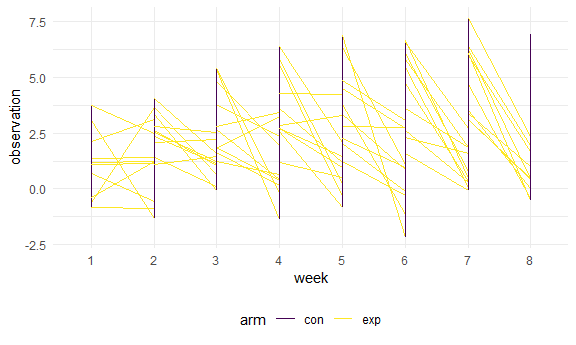
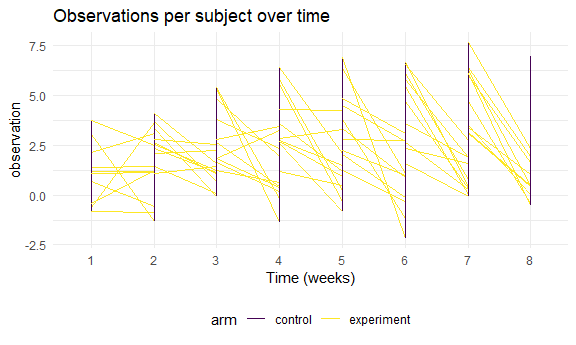
organizing and restarting on 3 -- got very lost

diff --git a/p8105_hw5_kpr2118.md b/p8105_hw5_kpr2118.md
@@ -7,14 +7,14 @@ Kailey Rishovd
 library(tidyverse)
 ```
 
-    ## -- Attaching packages --------------------------------------------------- tidyverse 1.3.0 --
+    ## -- Attaching packages ---------------------------------------- tidyverse 1.3.0 --
 
     ## v ggplot2 3.3.2     v purrr   0.3.4
     ## v tibble  3.0.3     v dplyr   1.0.2
     ## v tidyr   1.1.2     v stringr 1.4.0
     ## v readr   1.3.1     v forcats 0.5.0
 
-    ## -- Conflicts ------------------------------------------------------ tidyverse_conflicts() --
+    ## -- Conflicts ------------------------------------------- tidyverse_conflicts() --
     ## x dplyr::filter() masks stats::filter()
     ## x dplyr::lag()    masks stats::lag()
 
@@ -176,7 +176,11 @@ path_df =
   separate(path, c("path", "arm_id"), sep = "lda_data/") %>% 
   separate(arm_id, c("arm", "id"), sep = "_") %>% 
   separate(id, c("id", "csv")) %>% 
-  select(id, arm, week, observation)
+  select(id, arm, week, observation) %>% 
+  mutate(
+    arm = str_replace(arm, c("con"), "control"), 
+    arm = str_replace(arm, c("exp"), "experiment")
+  )
 ```
 
     ## Parsed with column specification:
@@ -405,7 +409,11 @@ Spaghetti plot showing observations on each subject over time
 ``` r
 path_df %>% 
   ggplot(aes(x = week, y = observation, group = id, color = arm)) + 
-  geom_line()
+  geom_line() + 
+  labs(title = "Observations per subject over time") +
+  xlab("Time (weeks)") 
 ```
 
 <img src="p8105_hw5_kpr2118_files/figure-gfm/unnamed-chunk-8-1.png" width="90%" />
+
+## Problem 3
